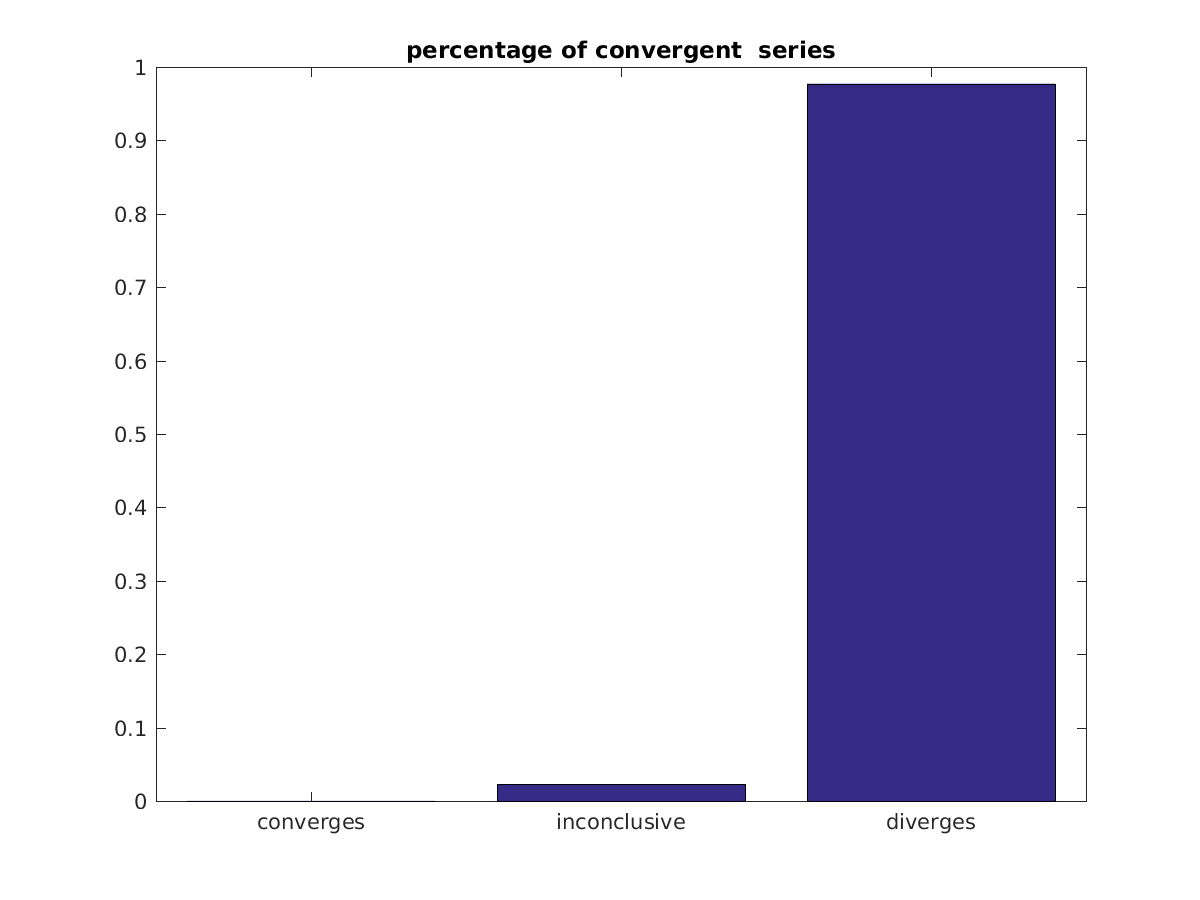
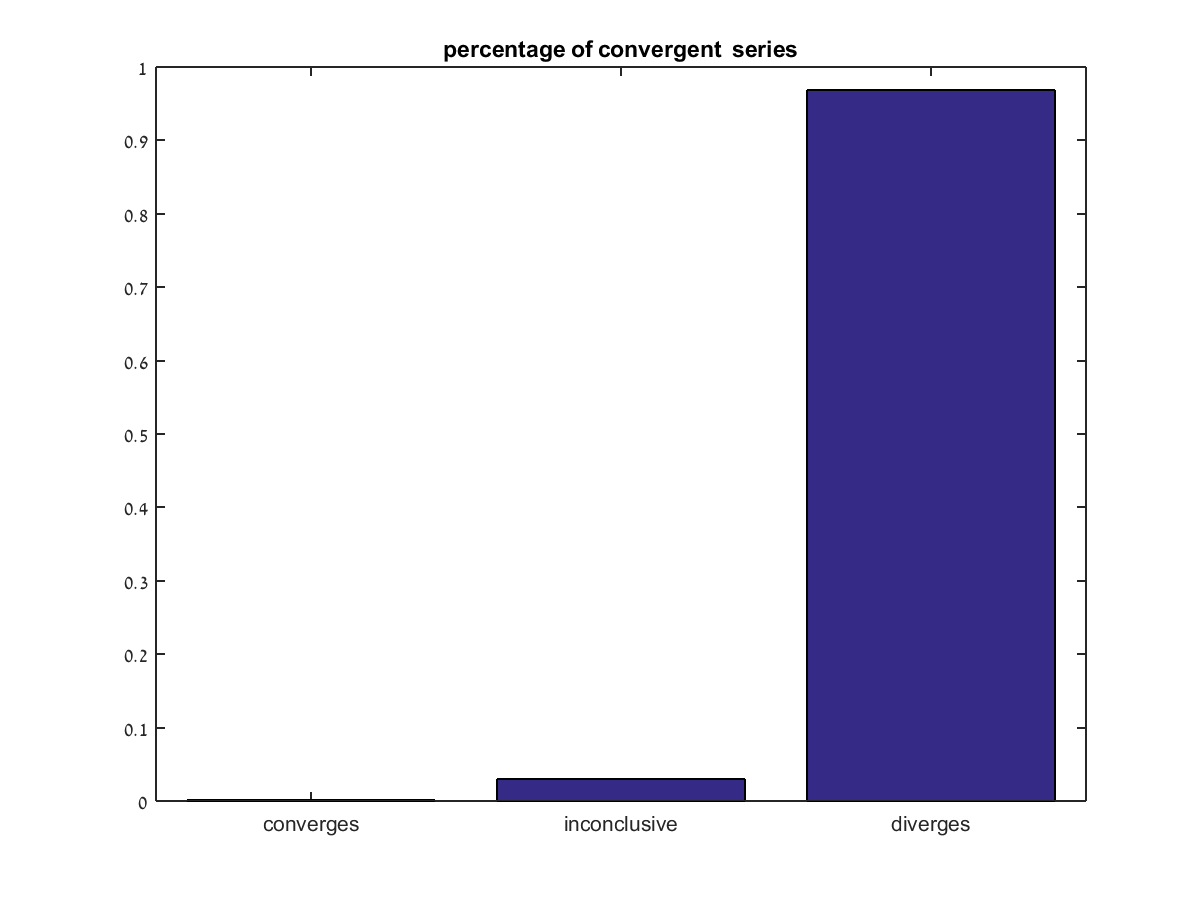
fixed getConverges

diff --git a/Filtering and summary statistics/getConverges.m b/Filtering and summary statistics/getConverges.m
@@ -14,7 +14,22 @@ g= ones(size(nan,1),1);
 nan=[nan g];
 v=[1:size(nan,1)].';
 B=accumarray(v,v,[],@(i) find(nan(i,:)==1,1,'first'));
-last10 = abs(cleaned_data(:,B-10:B-1));
+temp=zeros(size(cleaned_data,1),10);
+for i=1:length(B)
+    temp(i,:)=cleaned_data(i,B(i)-10:B(i)-1);
+end
+%b1 = B-10;
+%b2 = B-1;
+%[P, Q] = ndgrid(1:size(cleaned_data,1), 10:-1:1);
+%K = repmat(B(:), [1 10]);
+%ind = K-Q;
+%toAdd = repmat((0:1:(size(cleaned_data,1)-1))*size(cleaned_data,1)',[10 1]);
+%toAdd = toAdd';
+%ind = ind+toAdd;
+%t = cleaned_data';
+%temp = t(ind);
+%temp = temp+0:1:(size(cleaned_data,1)-1)*size(cleaned_data,2);
+last10 = abs(temp);
 %div=last10(:,2:10)./last10(:,1:9);
 monodec=sum(all(diff(last10,2,2)<0,2));
 mightmonodec=sum(all(diff(last10,2,2)<=0,2));
